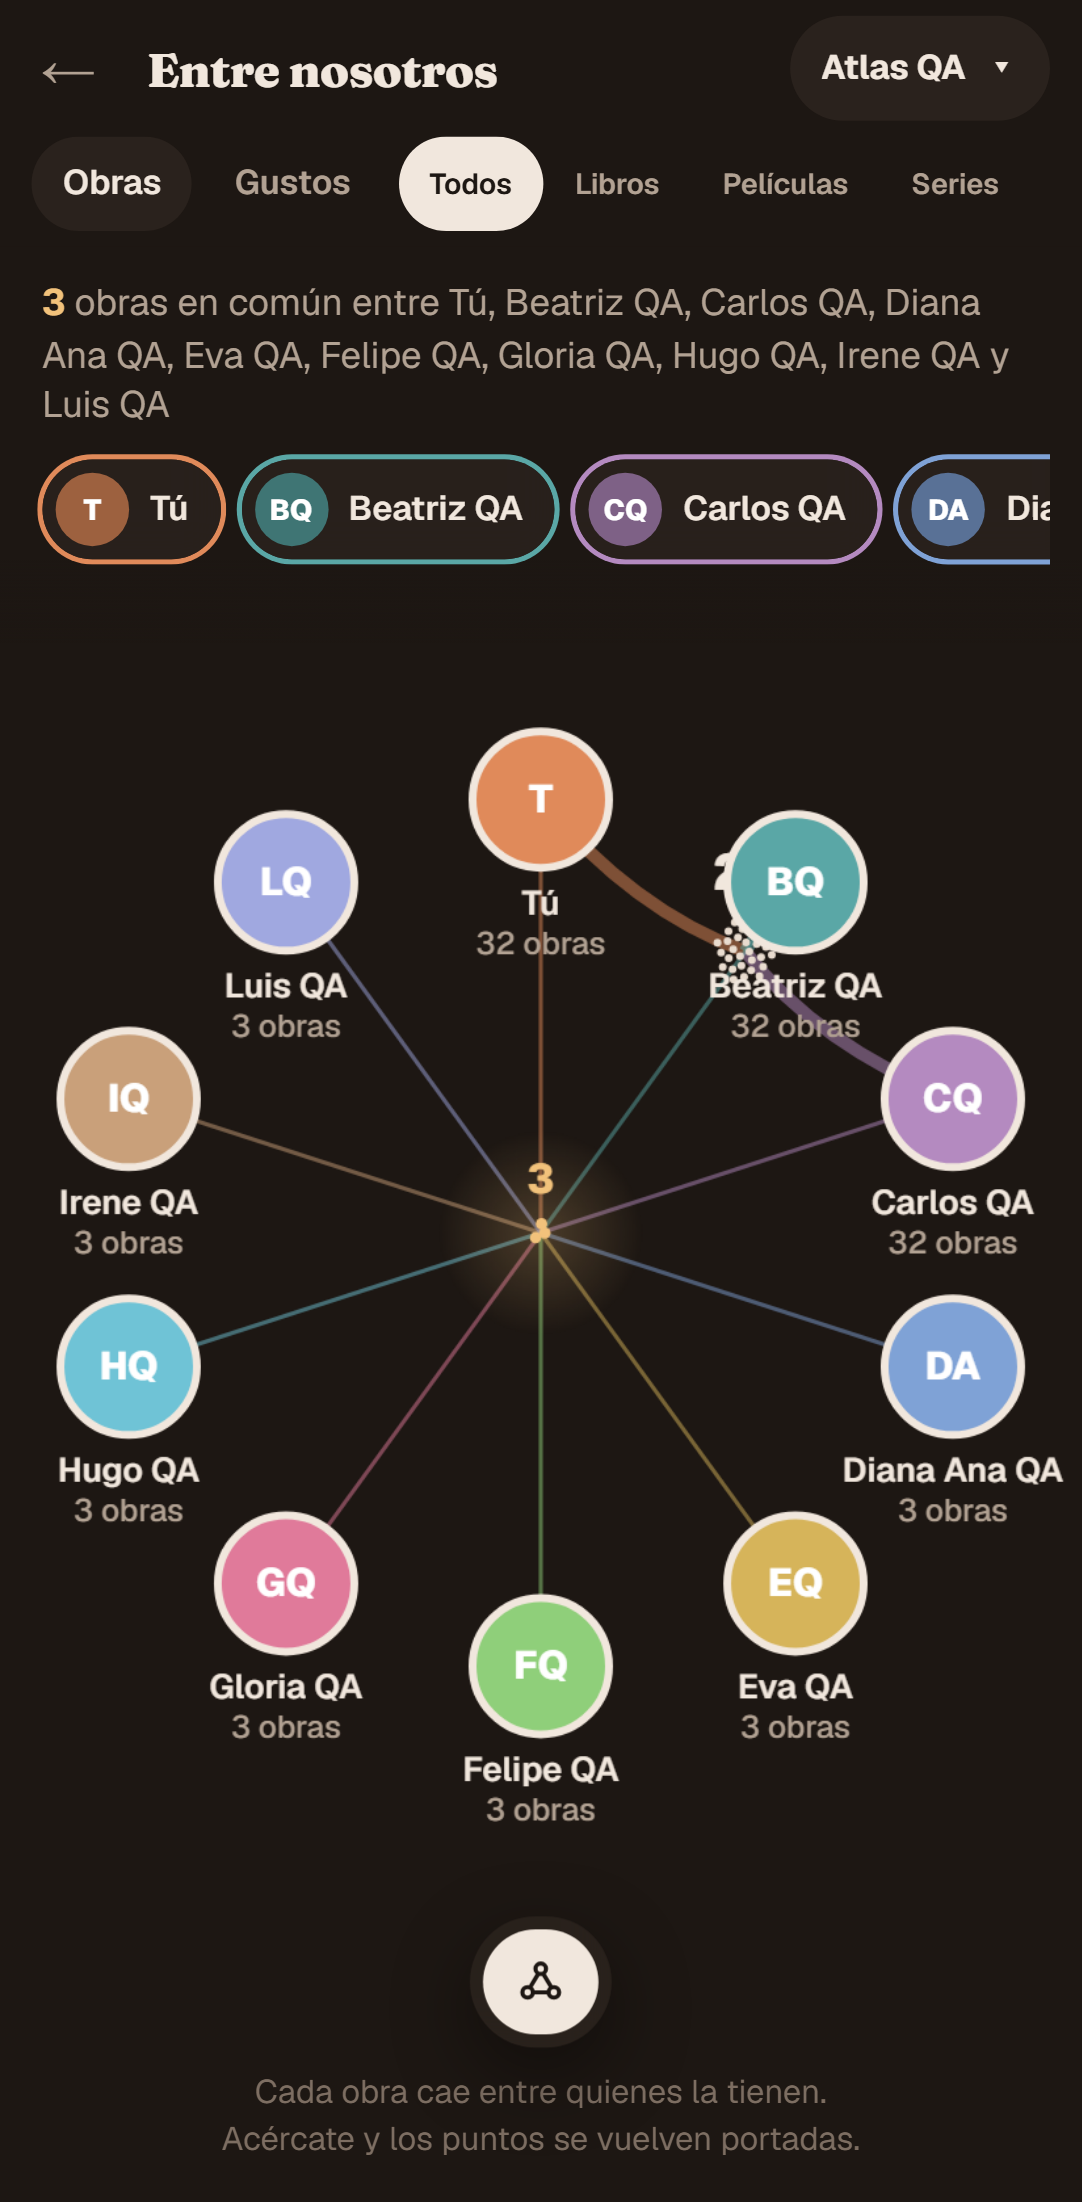
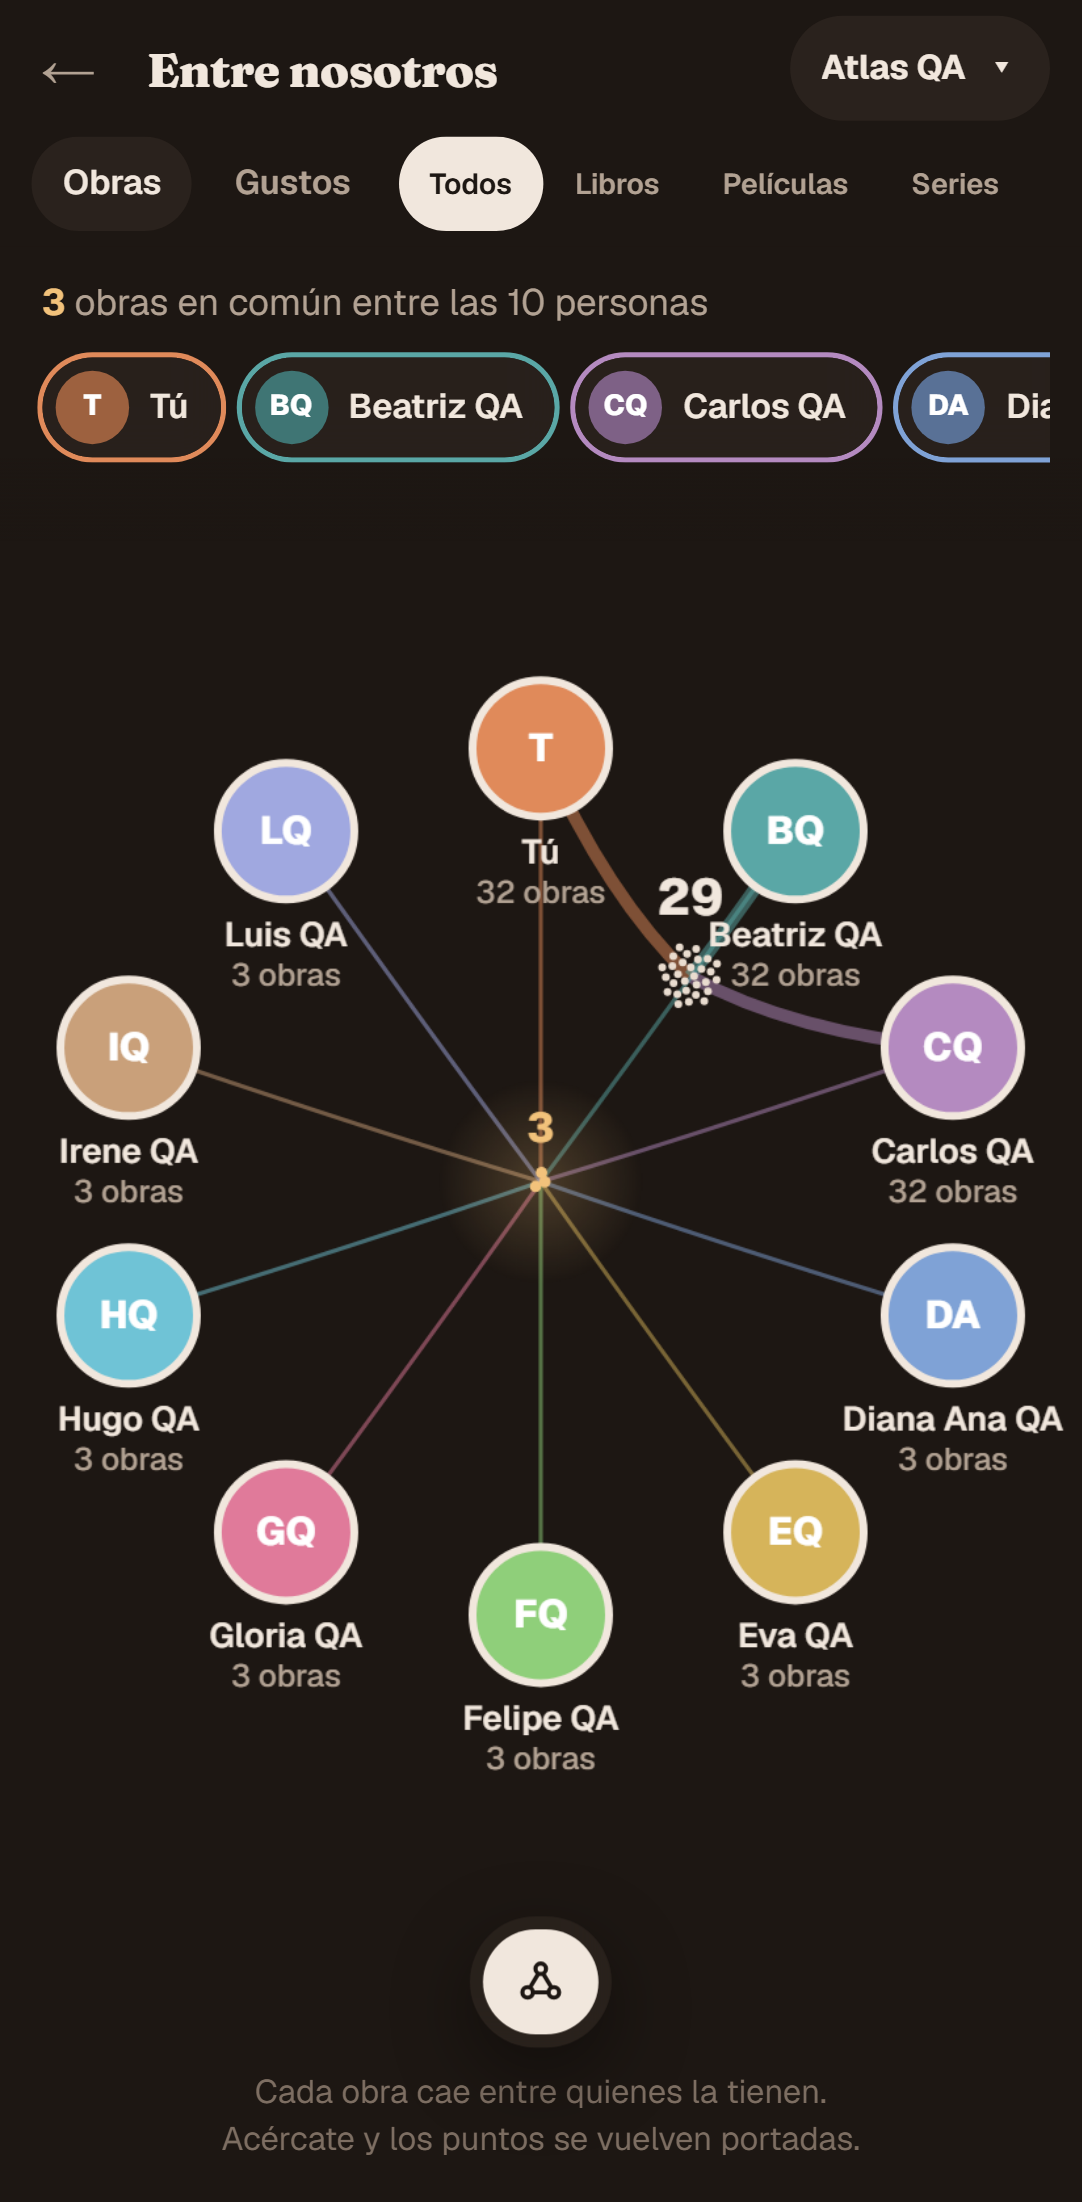
fix(entre-nosotros): grupos compartidos fuera del aro de polos y resumen corto con 4+ caras

diff --git a/src/lib/comparisons/atlas/layout.test.ts b/src/lib/comparisons/atlas/layout.test.ts
@@ -2,7 +2,7 @@ import { describe, expect, it } from 'vitest';
 import type { Snapshot, WorkKey } from '../types';
 import { regions } from '../derive';
 import { atlasModel } from './model';
-import { clusterState, layoutQuien, polePositions, POLE_RADIUS, workState } from './layout';
+import { clusterState, layoutQuien, polePositions, POLE_CLEARANCE, POLE_RADIUS, workState } from './layout';
 import { summarizeQuien } from './summary';
 
 const member = (id: string) => ({ slotId: id, userId: id, name: id.toUpperCase(), avatarUrl: null, available: true });
@@ -31,6 +31,20 @@ describe('layoutQuien', () => {
     const [pa, pb] = ['a', 'b'].map(id => layout.poles.find(p => p.userId === id)!);
     expect(ab.x).toBeCloseTo((pa.x + pb.x) / 2 * 0.92); expect(ab.y).toBeCloseTo((pa.y + pb.y) / 2 * 0.92);
     expect(layout.poles.map(p => p.count)).toEqual([6, 5, 4]);
+  });
+  it('con muchas personas, los grupos compartidos dejan libre el anillo de polos', () => {
+    const ids = Array.from({ length: 10 }, (_, i) => `p${i}`);
+    const many: Record<string, string[]> = Object.fromEntries(ids.map(id => [id, []]));
+    for (let i = 0; i < 30; i++) for (const id of ids.slice(0, 3)) many[id].push(`book:${i}`);
+    for (let i = 30; i < 32; i++) for (const id of ids.slice(0, 2)) many[id].push(`book:${i}`);
+    const snap: Snapshot = { group: { id: 'g', name: 'G', revision: 1, members: ids.map(member) }, format: 'all', excludedSeriesWithoutEpisodes: 0,
+      catalog: [], works: Object.entries(many).flatMap(([userId, keys]) => keys.map(key => ({ userId, key: key as WorkKey, rating: null, date: null, orderUnknown: false, progress: null }))) };
+    const model = atlasModel(snap, 'p0', 'Tú');
+    const layout = layoutQuien(model.people, model.works);
+    const shared = layout.clusters.filter(c => c.owners.length > 1);
+    expect(shared.length).toBe(2);
+    for (const cluster of shared) for (const pole of layout.poles)
+      expect(Math.hypot(cluster.x - pole.x, cluster.y - pole.y)).toBeGreaterThanOrEqual(POLE_CLEARANCE + cluster.r);
   });
   it('con dos personas, polos en horizontal', () => {
     const [left, right] = polePositions(['x', 'y']);

diff --git a/src/lib/comparisons/atlas/layout.ts b/src/lib/comparisons/atlas/layout.ts
@@ -6,6 +6,8 @@ export const SPIRAL_STEP = 12;
 const GOLDEN = Math.PI * (3 - Math.sqrt(5));
 /** Shared groups with fewer works draw no count nor thread (6–10 people would saturate the centre). */
 const LABEL_MIN = 3;
+/** Room (world units) a shared group keeps from the pole ring: avatar plus name/count labels. */
+export const POLE_CLEARANCE = 300;
 
 export type Pole = Point & { userId: string; count: number };
 export type Cluster = Point & { id: string; owners: string[]; r: number; keys: WorkKey[] };
@@ -36,11 +38,15 @@ export function layoutQuien(people: AtlasPerson[], works: AtlasWork[]): QuienLay
   }
   const positions = new Map<WorkKey, Point>();
   const clusters: Cluster[] = [...groups].map(([id, { owners, keys }]) => {
-    const f = owners.length > 1 ? 0.92 : 1;
-    const x = owners.reduce((sum, owner) => sum + at.get(owner)!.x, 0) / owners.length * f;
-    const y = owners.reduce((sum, owner) => sum + at.get(owner)!.y, 0) / owners.length * f;
+    const r = SPIRAL_STEP * Math.sqrt(keys.length) + 8;
+    const cx = owners.reduce((sum, owner) => sum + at.get(owner)!.x, 0) / owners.length;
+    const cy = owners.reduce((sum, owner) => sum + at.get(owner)!.y, 0) / owners.length;
+    const d = Math.hypot(cx, cy);
+    // Shared groups sit slightly inside the centroid, but never so far out that they cover a pole's label.
+    const f = owners.length > 1 ? (d > 0 ? Math.max(0, Math.min(0.92, (POLE_RADIUS - POLE_CLEARANCE - r) / d)) : 1) : 1;
+    const x = cx * f, y = cy * f;
     keys.forEach((key, i) => { const offset = spiral(i, SPIRAL_STEP); positions.set(key, { x: x + offset.x, y: y + offset.y }); });
-    return { id, owners, keys, x, y, r: SPIRAL_STEP * Math.sqrt(keys.length) + 8 };
+    return { id, owners, keys, x, y, r };
   });
   // Empty group (no available members): keep the extent finite so the camera fit does not become NaN.
   const empty = poles.length === 0 && clusters.length === 0;

diff --git a/src/components/comparisons/atlas/atlas-view.test.tsx b/src/components/comparisons/atlas/atlas-view.test.tsx
@@ -36,6 +36,17 @@ describe('AtlasView', () => {
       ['TTú', 'true', false], ['BBea', 'true', false], ['CCarla', 'true', false], ['?Persona no disponible', null, true]]);
     expect(summary()).toBe('1 obra en común entre Tú, Bea y Carla');
   });
+  it('desde 4 caras activas el resumen no lista nombres; al quitar una vuelve a la lista', () => {
+    const four = ['me', 'b', 'c', 'd'];
+    const names: Record<string, string> = { me: 'Tú', b: 'Bea', c: 'Carla', d: 'Dani' };
+    const big: Snapshot = { ...snapshot, group: { ...snapshot.group, members: four.map(id => member(id, names[id])) },
+      works: four.map(userId => ({ userId, key: 'book:1' as WorkKey, rating: null, date: null, orderUnknown: false, progress: null })) };
+    render(<NextIntlClientProvider locale="es" messages={messages}><AtlasView snapshot={big} viewerId="me" chosen={null} onChosenChange={vi.fn()}/></NextIntlClientProvider>);
+    expect(summary()).toBe('1 obra en común entre las 4 personas');
+    cleanup();
+    render(<NextIntlClientProvider locale="es" messages={messages}><AtlasView snapshot={big} viewerId="me" chosen={['me', 'b', 'c']} onChosenChange={vi.fn()}/></NextIntlClientProvider>);
+    expect(summary()).toBe('1 obra en común entre Tú, Bea y Carla');
+  });
   it('pinta el aviso de cobertura bajo el resumen cuando se le pasa', () => {
     view(<p data-testid="notice">Aviso</p>);
     const notice = screen.getByTestId('notice');

diff --git a/src/components/comparisons/atlas/atlas-view.tsx b/src/components/comparisons/atlas/atlas-view.tsx
@@ -87,7 +87,9 @@ export function AtlasView({ snapshot, viewerId, notice, chosen, onChosenChange }
     <div ref={overlay} className={styles.overlayTop}>
       <div><p className={styles.summary} role="status" aria-live="polite">{summary.kind === 'solo'
         ? t.rich('atlas.summary.solo', { count: summary.count, name: summary.name, b: bold })
-        : t.rich('atlas.summary.common', { count: summary.count, names: list.format(summary.names), b: bold })}</p>
+        : summary.names.length >= 4
+          ? t.rich('atlas.summary.commonMany', { count: summary.count, people: summary.names.length, b: bold })
+          : t.rich('atlas.summary.common', { count: summary.count, names: list.format(summary.names), b: bold })}</p>
         {notice}</div>
       <div className={styles.faces} role="group" aria-label={t('atlas.faces')}>
         {people.map(person => <button key={person.id} type="button" className={styles.face} aria-pressed={active.includes(person.id)}

diff --git a/e2e/entre-nosotros.spec.ts b/e2e/entre-nosotros.spec.ts
@@ -125,7 +125,7 @@ test('ten-person CRUD, owner-free group, atlas faces and formats, persistence an
     await expect(faces(page)).toHaveCount(10);
     expect(journal.some(row => row.body?.includes('PRIVATE PASS QA MUST NOT LEAVE'))).toBe(false);
     // All ten share the first three books; the first three also share 27 more, the movie and the series.
-    await expect(summary(page)).toContainText('3 obras en común entre Tú, Beatriz QA, Carlos QA');
+    await expect(summary(page)).toHaveText('3 obras en común entre las 10 personas');
     for (const actor of fixture.actors.slice(3)) await faces(page).filter({ hasText: actor.name }).click();
     await expect(summary(page)).toHaveText('32 obras en común entre Tú, Beatriz QA y Carlos QA');
     await page.getByRole('group', { name: 'Filtrar por tipo de obra', exact: true }).getByRole('button', { name: 'Libros', exact: true }).click(); await settled(page);

diff --git a/docs/testing/2026-10-13-entre-nosotros-atlas-f1.md b/docs/testing/2026-10-13-entre-nosotros-atlas-f1.md
@@ -50,10 +50,11 @@ Las capturas de la primera pasada mostraban seis problemas; se arreglaron y las 
 4. **«Abrir ficha» partido en dos líneas.** Botones con `white-space: nowrap`; en móvil las acciones van debajo del título y los dueños.
 5. **El vuelo al grupo saltaba a títulos (k≈4,2) con letra de 6-7 px.** El vuelo se limita a `[1,6; 2,8]` (calculado con la franja libre y factor 0,38), así que aterriza en portadas. Los títulos (umbrales 1,1 y 3,2 intactos) usan `min(14, max(9, 1,5·k))` px, se ajustan al ancho de la portada (partiendo palabras largas), máximo 3 líneas con elipsis, sobre una banda oscura.
 6. **Hoja de grupos al ras del borde inferior.** El `<dialog>` es una tarjeta redondeada entera con margen inferior que incluye `env(safe-area-inset-bottom)`, `max-height: 85dvh` y `overflow: auto`; todos los botones quedan visibles.
+7. **Grupos compartidos sobre un polo con muchas personas.** El grupo se coloca al ×0,92 del centroide, pero con 10 personas el centroide de polos vecinos cae junto al aro y el grupo tapaba la etiqueta del polo. Ahora el radio del grupo se limita a `POLE_RADIUS - POLE_CLEARANCE - r` (`POLE_CLEARANCE = 300`: avatar más nombre y cifra; 140 dejaba el grupo sobre la etiqueta). Capturas `desktop-map` y `mobile-map` retomadas: ningún grupo sobre un polo; la cifra «29» queda pegada a la etiqueta de Beatriz QA en móvil sin taparla.
+8. **Resumen de 3 líneas con muchas caras.** Desde 4 caras activas el resumen dice «N obras en común entre las X personas» (`atlas.summary.commonMany`) en vez de listar nombres; con 3 o menos sigue la lista.
 
 Queda:
 - Títulos sin espacios y largos (como `qa_comp_motion_NN`) se parten por caracteres y acaban en elipsis a zoom bajo de títulos; se leen enteros acercando más.
-- Con 10 personas, en el mapa la etiqueta de un grupo pequeño puede quedar bajo un polo (p. ej. el «2» junto a Beatriz QA): es de la disposición, no de estos arreglos.
 - Siguen igual que en F1: el tooltip de escritorio tapa obras vecinas; en móvil no hay botones de zoom (solo gestos); portadas de color sin imagen (F4).
 
 ## No verificado
